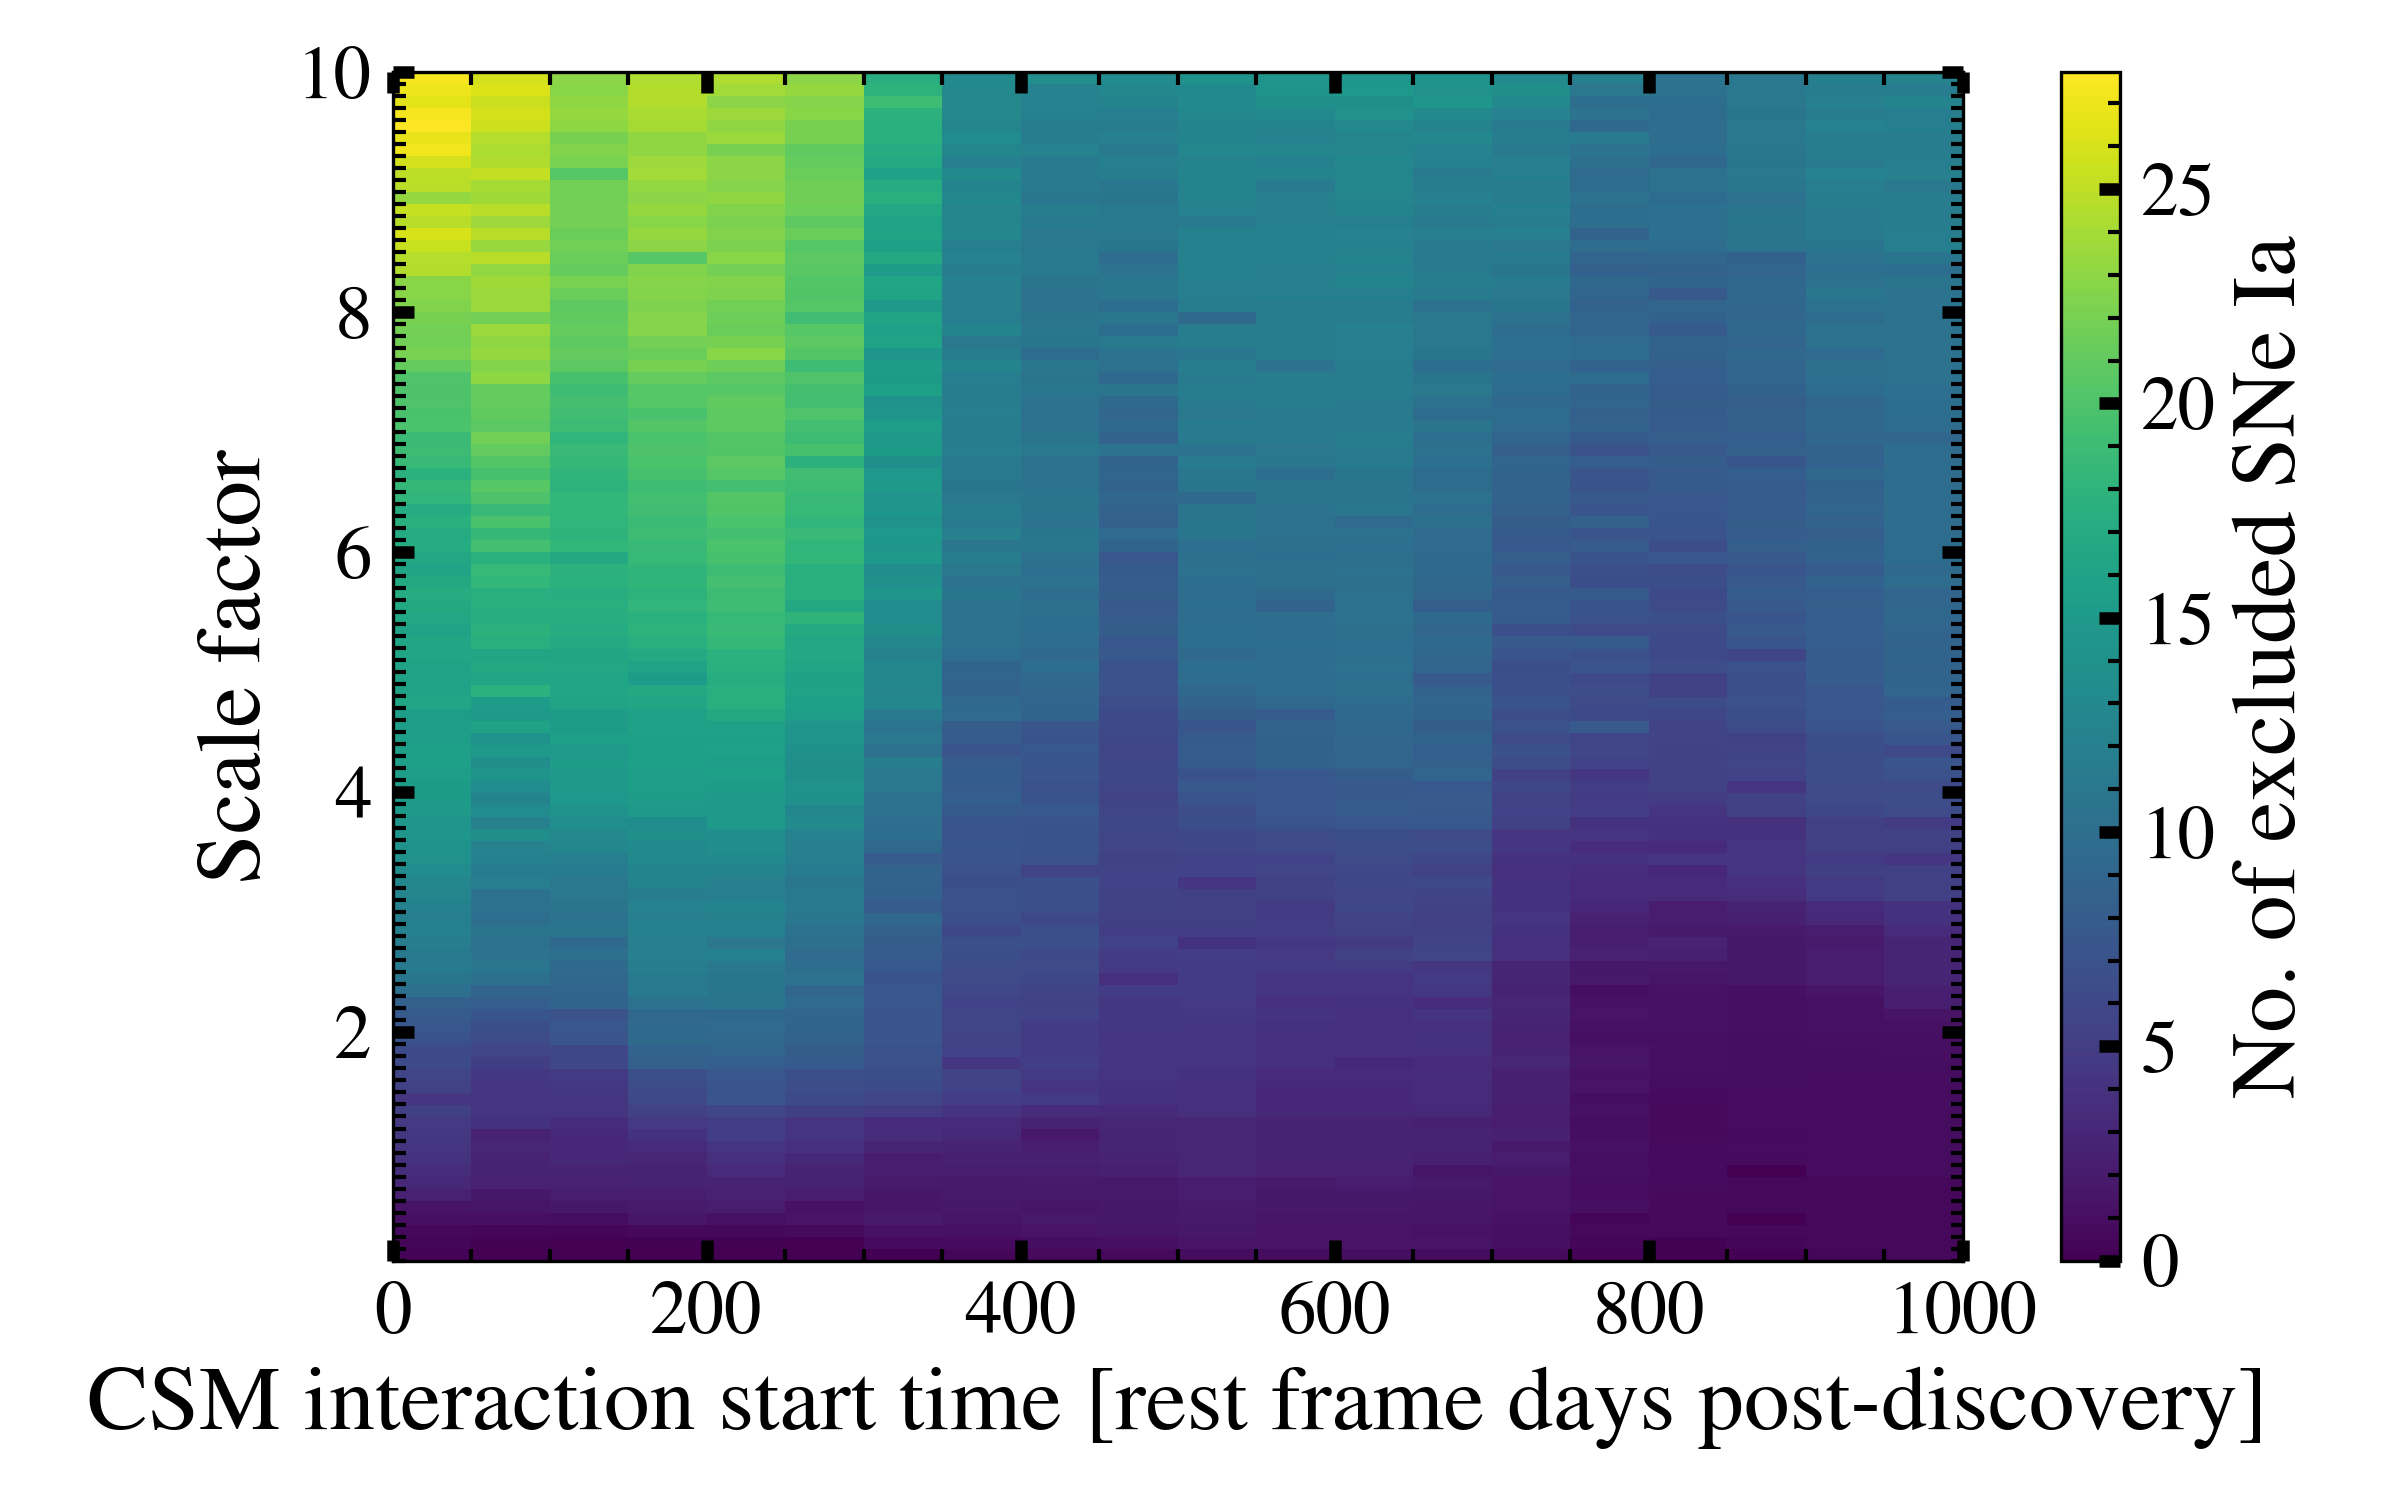
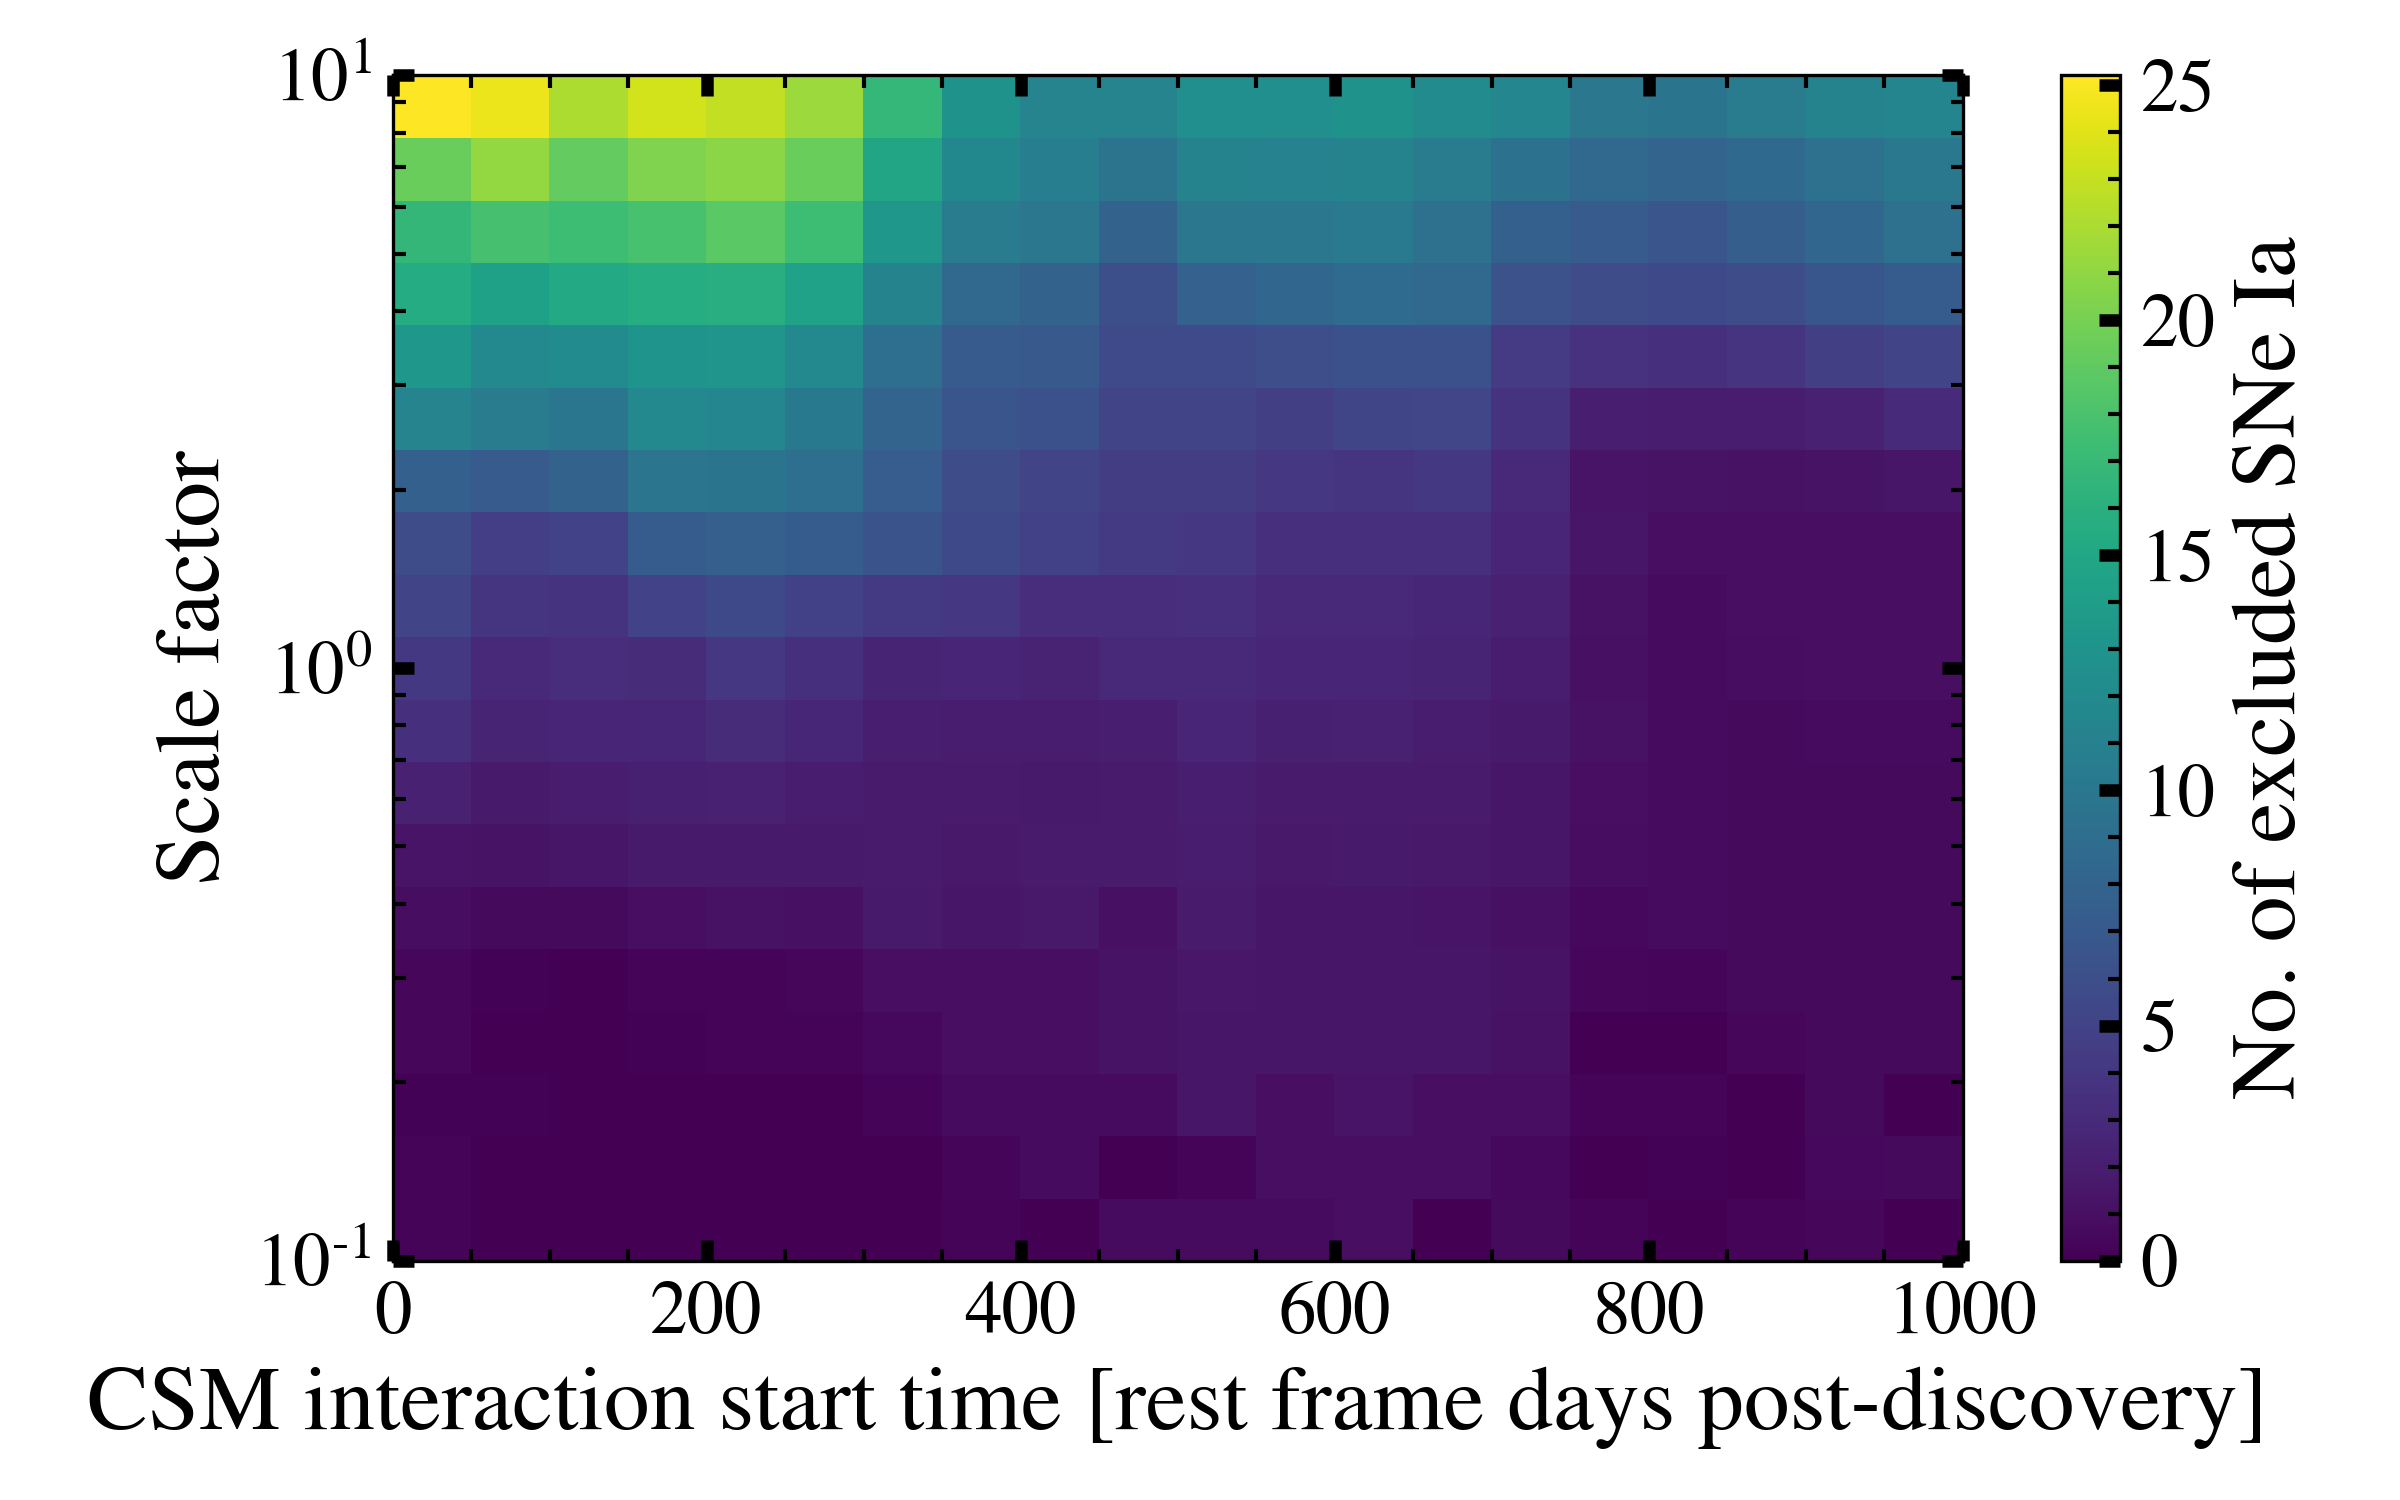
replace imshow with pcolormesh

diff --git a/plot.py b/plot.py
@@ -10,12 +10,12 @@ from utils import *
 
 
 def main(iterations, t_min=TSTART_MIN, t_max=TSTART_MAX, scale_min=SCALE_MIN,
-        scale_max=SCALE_MAX, bin_width=50, bin_height=0.1, overwrite=False,
+        scale_max=SCALE_MAX, bin_width=50, y_bins=20, overwrite=False,
         show_plot=False):
 
     # Bin edges
     x_edges = np.arange(t_min, t_max+bin_width, bin_width)
-    y_edges = np.arange(scale_min, scale_max+bin_height, bin_height)
+    y_edges = np.logspace(np.log10(scale_min), np.log10(scale_max), num=y_bins)
 
     # List of files in save dir
     save_files = list(Path(SAVE_DIR).glob('*-%s.csv' % iterations))
@@ -30,30 +30,22 @@ def main(iterations, t_min=TSTART_MIN, t_max=TSTART_MAX, scale_min=SCALE_MIN,
 
     # Plot histogram
     print('Plotting...')
-    plot(hist, show=show_plot)
+    plot(x_edges, y_edges, hist, show=show_plot)
 
 
-def plot(hist, show=False, output_file='recovery.png'):
+def plot(x_edges, y_edges, hist, show=False, output_file='recovery.png'):
     """Plot 2D histogram of recovery rate by time since discovery and scale factor."""
 
     # Flip y-axis
     hist.sort_index(ascending=True, inplace=True)
 
-    # Calculate data range
-    x_bins = hist.columns.to_numpy(dtype=float)
-    y_bins = hist.index.to_numpy(dtype=float)
-    bin_width = x_bins[1] - x_bins[0]
-    bin_height = y_bins[1] - y_bins[0]
-    extent = (x_bins[0], x_bins[-1]+bin_width, y_bins[0], y_bins[-1]+bin_height)
-
     # Plot
     fig, ax = plt.subplots()
-    im = ax.imshow(hist, aspect='auto', origin='lower', extent=extent)
-    ax.xaxis.set_minor_locator(MultipleLocator(bin_width))
-    ax.yaxis.set_minor_locator(MultipleLocator(bin_height))
+    pcm = ax.pcolormesh(x_edges, y_edges, hist)
+    ax.set_yscale('log')
     ax.set_xlabel('CSM interaction start time [rest frame days post-discovery]')
     ax.set_ylabel('Scale factor')
-    plt.colorbar(im, label='No. of excluded SNe Ia')
+    plt.colorbar(pcm, label='No. of excluded SNe Ia')
     fig.tight_layout()
     plt.savefig(OUTPUT_DIR / Path(output_file), dpi=300)
 
